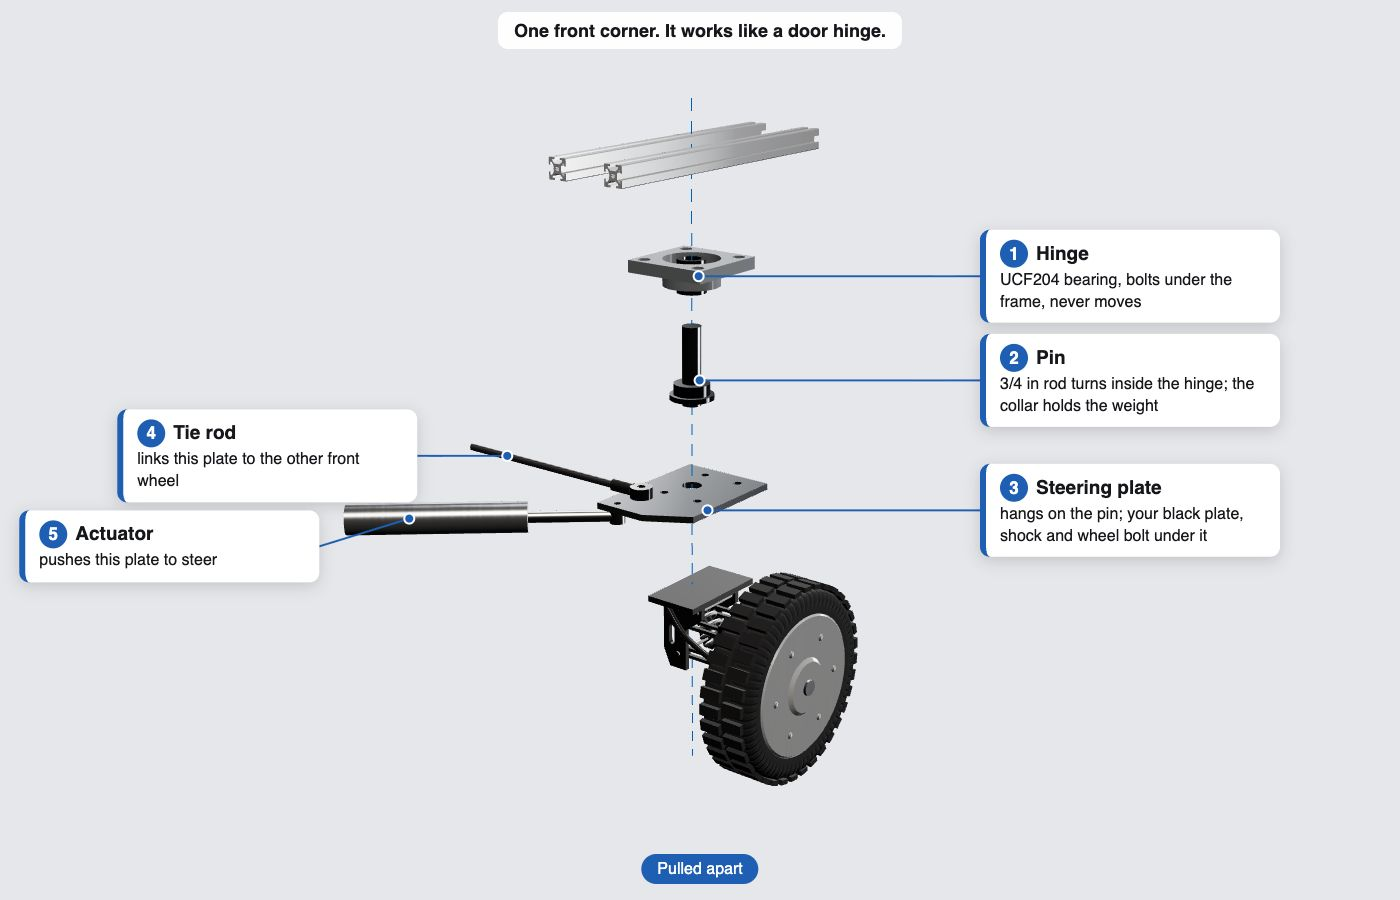
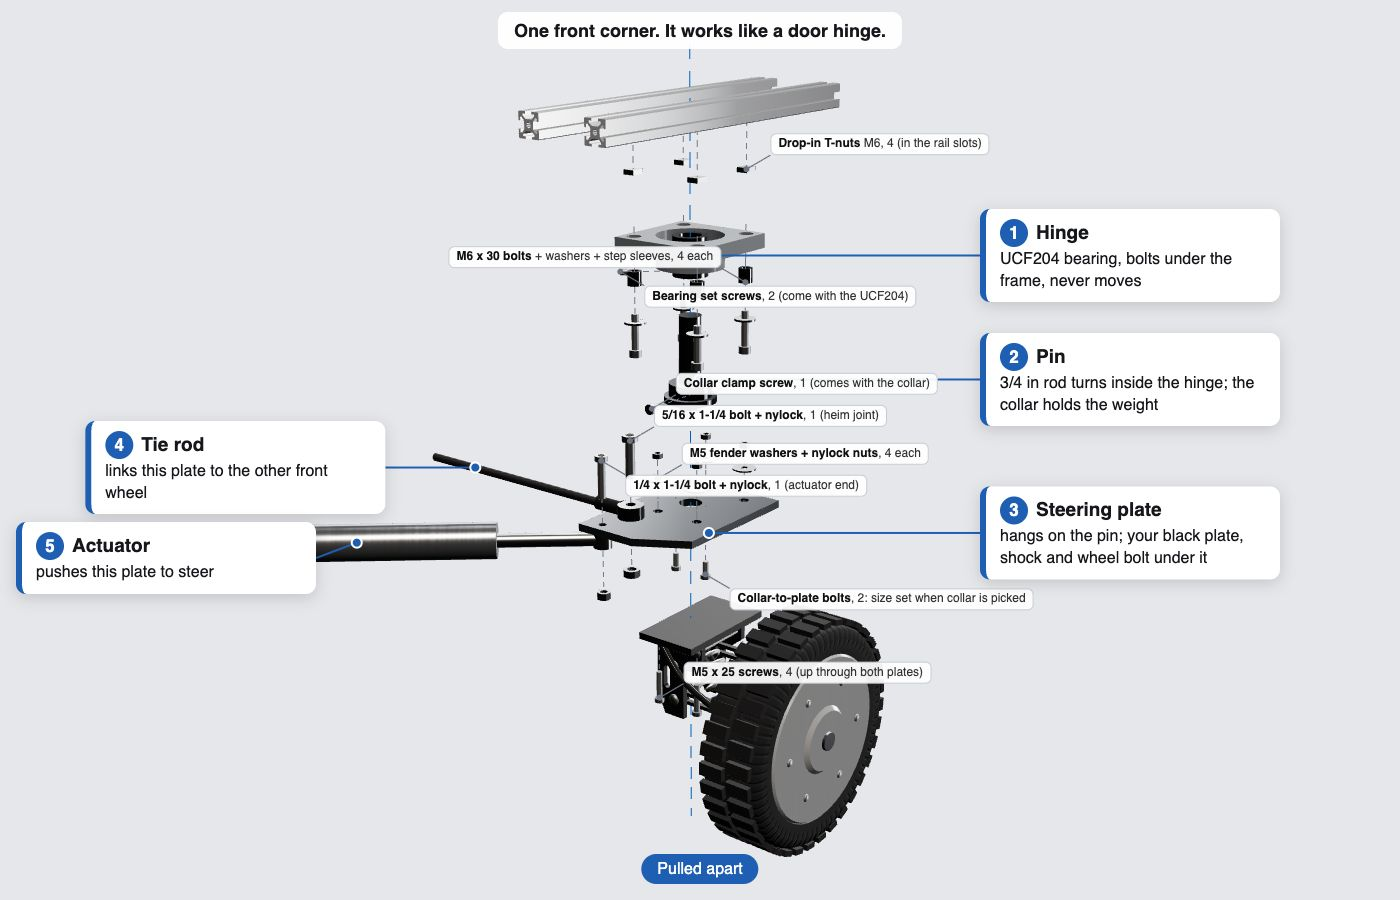
Corner hinge view: every bolt, nut and T-nut shown and labeled

Changed region(s): [[0.0, 0.2178, 0.9214, 0.9644], [0.3686, 0.0622, 0.7064, 0.2178]]

diff --git a/docs/rebuild-2026/frame-v3/assembly/corner-simple.html b/docs/rebuild-2026/frame-v3/assembly/corner-simple.html
@@ -8,6 +8,8 @@ canvas{display:block;position:fixed;inset:0;width:100%;height:100%}
 #phase{position:absolute;bottom:16px;left:50%;transform:translateX(-50%);background:#1f5fb3;color:#fff;padding:6px 16px;border-radius:18px;font-size:16px;z-index:5}
 #labs{position:fixed;inset:0;pointer-events:none;z-index:4} #labs svg{position:absolute;inset:0;width:100%;height:100%}
 .lab{position:absolute;left:0;top:0;width:300px;background:#fff;border-radius:10px;padding:10px 14px;font-size:16px;line-height:1.35;box-shadow:0 4px 16px rgba(0,0,0,.16);border-left:6px solid #1f5fb3}
+.slab{position:absolute;left:0;top:0;background:rgba(255,255,255,.93);border:1px solid #c7cbd2;border-radius:6px;padding:2px 7px;font-size:12px;line-height:1.3;white-space:nowrap;color:#333}
+.slab b{font-weight:600;color:#111}
 .lab b{display:block;font-size:19px;margin-bottom:2px} .lab i{font-style:normal;display:inline-block;width:28px;height:28px;border-radius:50%;background:#1f5fb3;color:#fff;text-align:center;line-height:28px;font-weight:700;margin-right:8px;font-size:17px}
 </style></head><body>
 <div id="top">One front corner. It works like a door hinge. <button id="pause">❚❚ Pause</button></div>
@@ -154,7 +156,6 @@ function suspModule(px,cy,zt,sx){ const g=new THREE.Group(); const U=u=>px+sx*u,
   return g; }
 // his v3 frame: 22 1/4 x 12 in bottom, low box 6 1/2 in tall over the whole length, tall box 13 1/2 in over the back ~17 in,
 // mid rail ring at ~9 1/4 in, top side rails black, silver gussets with button heads on every outside joint, black end caps
-btn=()=>new THREE.Group(); // simple picture: no bolt heads
 const canvas=document.getElementById('c'); const renderer=new THREE.WebGLRenderer({canvas,antialias:true,preserveDrawingBuffer:true}); renderer.setPixelRatio(REC?1:devicePixelRatio);
 renderer.outputColorSpace=THREE.SRGBColorSpace; renderer.toneMapping=THREE.ACESFilmicToneMapping; renderer.toneMappingExposure=1.0;
 const scene=new THREE.Scene(); scene.background=new THREE.Color(0xe6e7ea);
@@ -177,6 +178,39 @@ const tie=new THREE.Group(); G.plate.add(tie); tie.add(ring(D.heimOD/2,D.heimBor
 const act=new THREE.Group(); G.plate.add(act); const ad=V(-205.5,-173.6,0).normalize();
 act.add(rodBetween(V(0,0,0),ad.clone().multiplyScalar(90),D.actRod/2,COL.chrome)); act.add(rodBetween(ad.clone().multiplyScalar(86),ad.clone().multiplyScalar(260),D.actTubeR,COL.act,32));
 act.add(cyl(8,14,COL.chrome,0,0,0));
+// ---- every fastener: home spot + its own pull-out direction, dashed line shows where it goes ----
+const armF=new THREE.Group(), actF=new THREE.Group(); G.plate.add(armF,actF);
+const FAST=[]; const dashM=()=>new THREE.LineDashedMaterial({color:0x6b7280,dashSize:5,gapSize:4,transparent:true});
+function place(parent,obj,pos,dir,dist,grp){ // dir = the way the shank points (the way it goes in); it is pulled out the other way
+  dir=dir.clone().normalize(); obj.quaternion.setFromUnitVectors(V(0,0,-1),dir); obj.position.copy(pos); parent.add(obj);
+  const off=dir.clone().multiplyScalar(-dist); const lg=new THREE.BufferGeometry().setFromPoints([pos.clone().addScaledVector(dir,8),pos.clone().add(off)]); const ln=new THREE.Line(lg,dashM()); ln.computeLineDistances(); parent.add(ln);
+  const f={obj,home:pos.clone(),off,ln,grp}; FAST.push(f); return f; }
+const nutO=(d,h)=>{ const g=new THREE.Group(); const n=nut(d,h); g.add(n); return g; };
+const washO=(od,id,h)=>{ const g=new THREE.Group(); g.add(washer(od,id,h)); return g; };
+const DN=V(0,0,-1), UP=V(0,0,1);
+// bearing to the 2 rails: drop-in T-nut in each rail's bottom slot, step sleeve in the ear hole, washer, M6 x 30 bolt up from below
+D.bolt4.forEach(([x,y],i)=>{
+  place(G.rails,(()=>{ const g=new THREE.Group(); g.add(box(10,12,4,COL.bolt,0,0,0)); return g; })(),V(x,y,1.8),UP,40,'tnut');
+  place(G.hinge,(()=>{ const g=new THREE.Group(); g.add(ring(D.holeR-0.3,3.2,D.ear,COL.chrome,0,0,-D.ear/2)); return g; })(),V(x,y,zE+D.ear),UP,40,'m6');
+  place(G.hinge,washO(18,6.4,1.6),V(x,y,zE-0.8),UP,58,'m6');
+  place(G.hinge,screw(6,30,6),V(x,y,zE-1.6),UP,80,'m6'); });
+// the bearing's 2 set screws, in the inner ring, pointing at the pin
+for(const a of [Math.PI+0.7,Math.PI-0.7]){ const d=V(-Math.cos(a),-Math.sin(a),0), r=D.shaftR+5; place(G.hinge,screw(6,6,0.01),V(r*Math.cos(a),r*Math.sin(a),zI+3.5),d,42,'set'); }
+// collar clamp screw (across the split collar)
+place(turnPin,screw(5,14,3.5),V(11,-19,zC+10.5),V(0,1,0),45,'clamp');
+// collar-to-plate bolts: up through the steering plate into the collar flange
+for(const x of [16,-16]) place(turnPlate,screw(5,12,3.5),V(x,0,zP-0.1),UP,55,'colb');
+// black plate under the steering plate: 4 M5 x 25 up from below, fender washer + nylock on top of the steering plate
+D.fslots.forEach(([u,v])=>{ place(turnBlack,screw(5,D.m5Lf,3.5),V(sx*u,v,zK-0.1),UP,60,'m5');
+  place(turnPlate,washO(20,5.3,1.2),V(sx*u,v,zP+D.plateT+0.6),DN,28,'m5n'); place(turnPlate,nutO(5,4),V(sx*u,v,zP+D.plateT+3.2),DN,46,'m5n'); });
+// 5/16 bolt down through the heim joint and the arm hole, nylock under the plate
+place(armF,screw(D.heimBore,D.heimBoltL,5),V(0,0,zt+D.heimT/2+0.1),DN,55,'heim'); place(armF,nutO(D.heimBore,6),V(0,0,zP-3),UP,40,'heim');
+// 1/4 bolt down through the steering plate and the actuator rod end, nylock under it
+place(actF,screw(6.35,32,4.5),V(0,0,zP+D.plateT+0.1),DN,55,'act'); place(actF,nutO(6.35,6),V(0,0,zP-16),UP,40,'act');
+const SLABS={tnut:'<b>Drop-in T-nuts</b> M6, 4 (in the rail slots)',m6:'<b>M6 x 30 bolts</b> + washers + step sleeves, 4 each',set:'<b>Bearing set screws</b>, 2 (come with the UCF204)',
+  clamp:'<b>Collar clamp screw</b>, 1 (comes with the collar)',colb:'<b>Collar-to-plate bolts</b>, 2: size set when collar is picked',m5:'<b>M5 x 25 screws</b>, 4 (up through both plates)',
+  m5n:'<b>M5 fender washers + nylock nuts</b>, 4 each',heim:'<b>5/16 x 1-1/4 bolt + nylock</b>, 1 (heim joint)',act:'<b>1/4 x 1-1/4 bolt + nylock</b>, 1 (actuator end)'};
+const slabs=Object.entries(SLABS).map(([g,h])=>{ const d=document.createElement('div'); d.className='slab'; d.innerHTML=h; document.getElementById('labs').appendChild(d); return {g,d,f:FAST.filter(f=>f.grp===g)}; });
 // dashed pin axis
 const axG=new THREE.BufferGeometry().setFromPoints([V(0,0,260),V(0,0,-420)]); const ax=new THREE.Line(axG,new THREE.LineDashedMaterial({color:0x1f5fb3,dashSize:12,gapSize:9})); ax.computeLineDistances(); scene.add(ax);
 // apart offsets (z), top to bottom
@@ -195,15 +229,23 @@ function state(t){ const u=((t%T)+T)%T; let k, a=0, ph;
   else if(u<14){ k=ease((u-11.5)/2.5); ph='Pulling apart'; } else { k=1; ph='Pulled apart'; }
   kNow=k; for(const g in APART) G[g].position.z=APART[g]*k;
   turnPin.rotation.z=turnPlate.rotation.z=turnBlack.rotation.z=a;
-  const ar=rotZ(armP,a), ac=rotZ(actP,a); tie.position.set(ar.x,ar.y,zt); act.position.set(ac.x,ac.y,zP-6);
+  const ar=rotZ(armP,a), ac=rotZ(actP,a); tie.position.set(ar.x,ar.y,zt); act.position.set(ac.x,ac.y,zP-6); armF.position.set(ar.x,ar.y,0); actF.position.set(ac.x,ac.y,0);
+  for(const f of FAST){ f.obj.position.copy(f.home).addScaledVector(f.off,k); f.ln.material.opacity=k; f.ln.visible=k>0.02; }
   if(phaseEl.textContent!==ph) phaseEl.textContent=ph;
-  const az=-0.95+0.35*Math.sin(t*2*Math.PI/30), el=0.32, r=1250+400*kNow, tg=V(10,0,-80); cam.position.set(tg.x+r*Math.cos(az)*Math.cos(el),tg.y+r*Math.sin(az)*Math.cos(el),tg.z+r*Math.sin(el)); cam.lookAt(tg); }
+  const az=-0.95+0.35*Math.sin(t*2*Math.PI/30), el=0.32, r=1150+250*kNow, tg=V(10,0,-100+30*kNow); cam.position.set(tg.x+r*Math.cos(az)*Math.cos(el),tg.y+r*Math.sin(az)*Math.cos(el),tg.z+r*Math.sin(el)); cam.lookAt(tg); }
 function placeLabels(){ const W=canvas.clientWidth,H=canvas.clientHeight; cam.updateMatrixWorld(); let lines=''; const used={'-1':[],'1':[]};
   const its=LABS.map(l=>{ const p=anchor[l[0]]().project(cam); return {l,ax:(p.x+1)/2*W,ay:(1-p.y)/2*H}; }).sort((a,b)=>a.ay-b.ay);
   for(const it of its){ const d=it.l[5], side=it.l[4], w=d.offsetWidth, h=d.offsetHeight; let x=side<0?Math.max(16,Math.min(it.ax-w-90,W*0.30-w)):Math.min(W-w-16,Math.max(it.ax+90,W*0.70));
     let y=Math.max(64,Math.min(H-h-60,it.ay-h/2)); for(const b of used[side]) if(y<b+8) y=b+8; used[side].push(y+h);
     d.style.transform=`translate(${x}px,${y}px)`; const ex=side<0?x+w:x, ey=y+h/2;
     lines+=`<line x1="${ex}" y1="${ey}" x2="${it.ax}" y2="${it.ay}" stroke="#1f5fb3" stroke-width="2"/><circle cx="${it.ax}" cy="${it.ay}" r="5" fill="#1f5fb3" stroke="#fff" stroke-width="2"/>`; }
+  const rects=[...document.querySelectorAll('.lab,#top,#phase')].map(e=>e.getBoundingClientRect()); const hit=(a,b)=>a.l<b.right&&a.r>b.left&&a.t<b.bottom&&a.b>b.top; const _w=new THREE.Vector3();
+  for(const S of slabs){ if(kNow<0.25){ S.d.style.transform='translate(-9999px,0)'; continue; } // assembled: small labels step aside so the bolts show in place
+    const f=S.f[0]; f.obj.getWorldPosition(_w); const p=_w.project(cam); const ax=(p.x+1)/2*W, ay=(1-p.y)/2*H, w=S.d.offsetWidth, h=S.d.offsetHeight; let ok=null;
+    for(const [dx,dy] of [[24,-h-14],[24,14],[-w-24,-h-14],[-w-24,14],[40,-h-40],[-w-40,-h-40],[40,40],[-w-40,40],[60,-h/2],[-w-60,-h/2],[24,-h-70],[-w-24,-h-70],[24,70],[-w-24,70]]){
+      const c={l:ax+dx,t:ay+dy,r:ax+dx+w,b:ay+dy+h}; if(c.l<8||c.r>W-8||c.t<56||c.b>H-50) continue; if(rects.some(r=>hit(c,r))) continue; ok=c; break; }
+    if(!ok){ S.d.style.transform='translate(-9999px,0)'; continue; } S.d.style.transform=`translate(${ok.l}px,${ok.t}px)`; rects.push({left:ok.l,right:ok.r,top:ok.t,bottom:ok.b});
+    const ex=Math.max(ok.l,Math.min(ok.r,ax)), ey=ay<ok.t?ok.t:(ay>ok.b?ok.b:(ok.t+ok.b)/2); lines+=`<line x1="${ex}" y1="${ey}" x2="${ax}" y2="${ay}" stroke="#6b7280" stroke-width="1.2"/><circle cx="${ax}" cy="${ay}" r="3" fill="#6b7280"/>`; }
   svg.innerHTML=lines; }
 function fit(){ const w=canvas.clientWidth,h=canvas.clientHeight; renderer.setSize(w,h,false); cam.aspect=w/h; cam.updateProjectionMatrix(); } addEventListener('resize',fit); fit();
 let t=0, playing=!REC, prev=performance.now(); const pb=document.getElementById('pause'); pb.onclick=()=>{ playing=!playing; pb.textContent=playing?'❚❚ Pause':'▶ Play'; };
